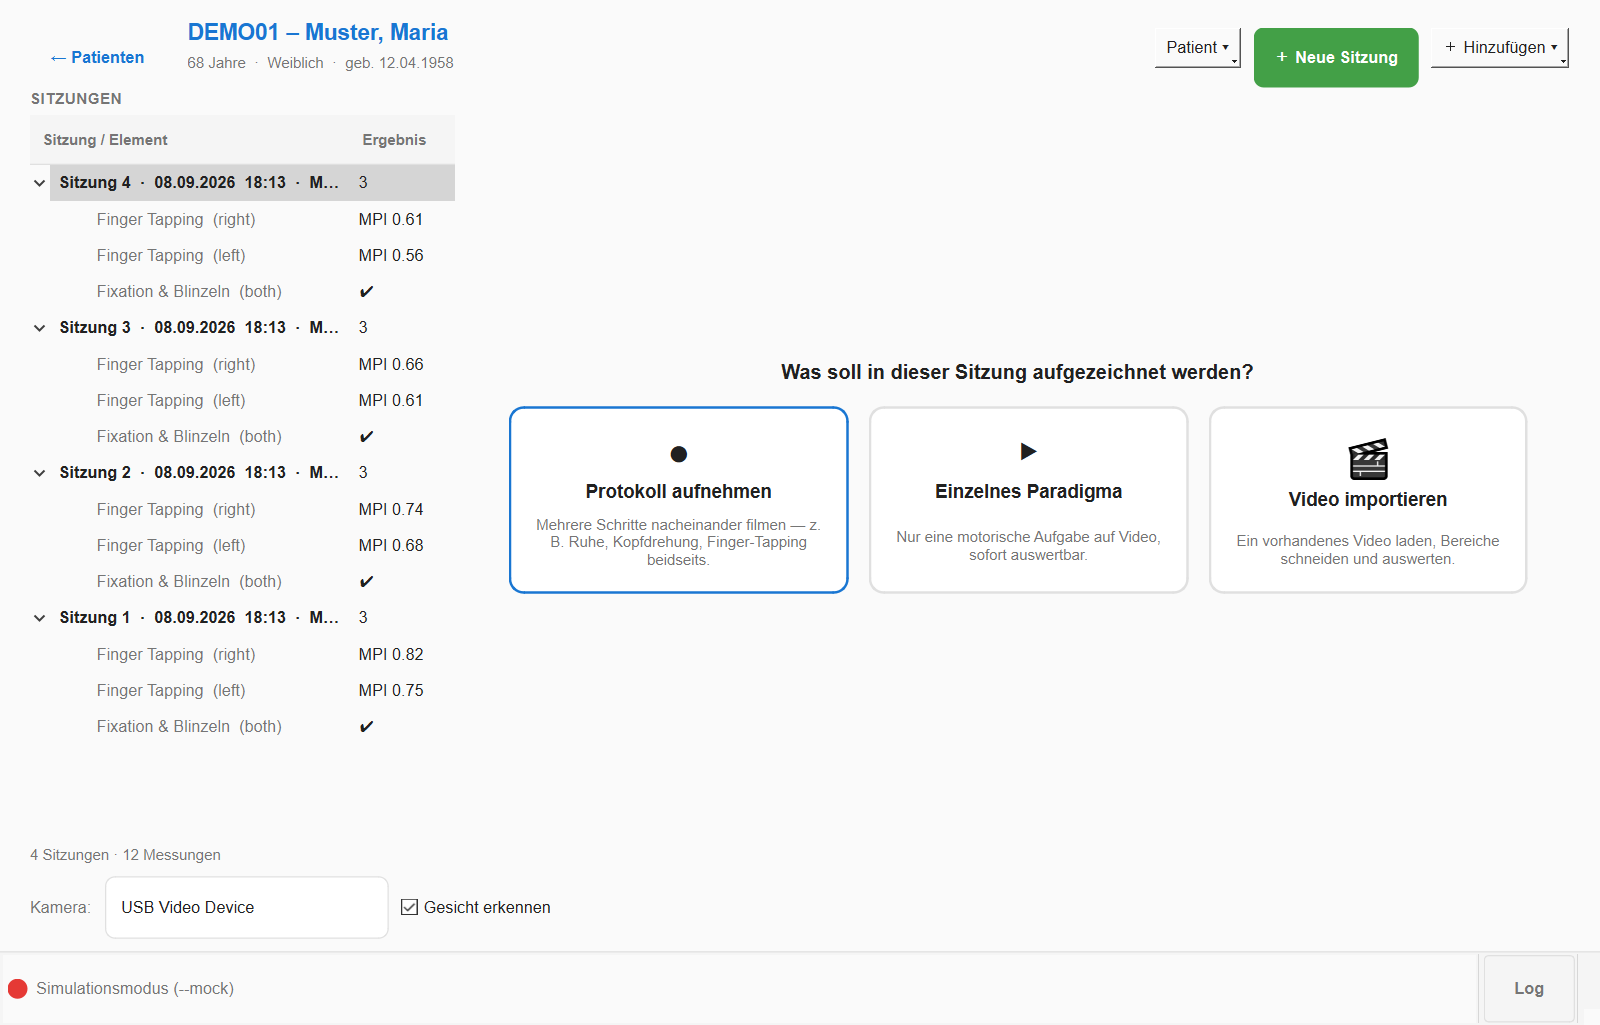
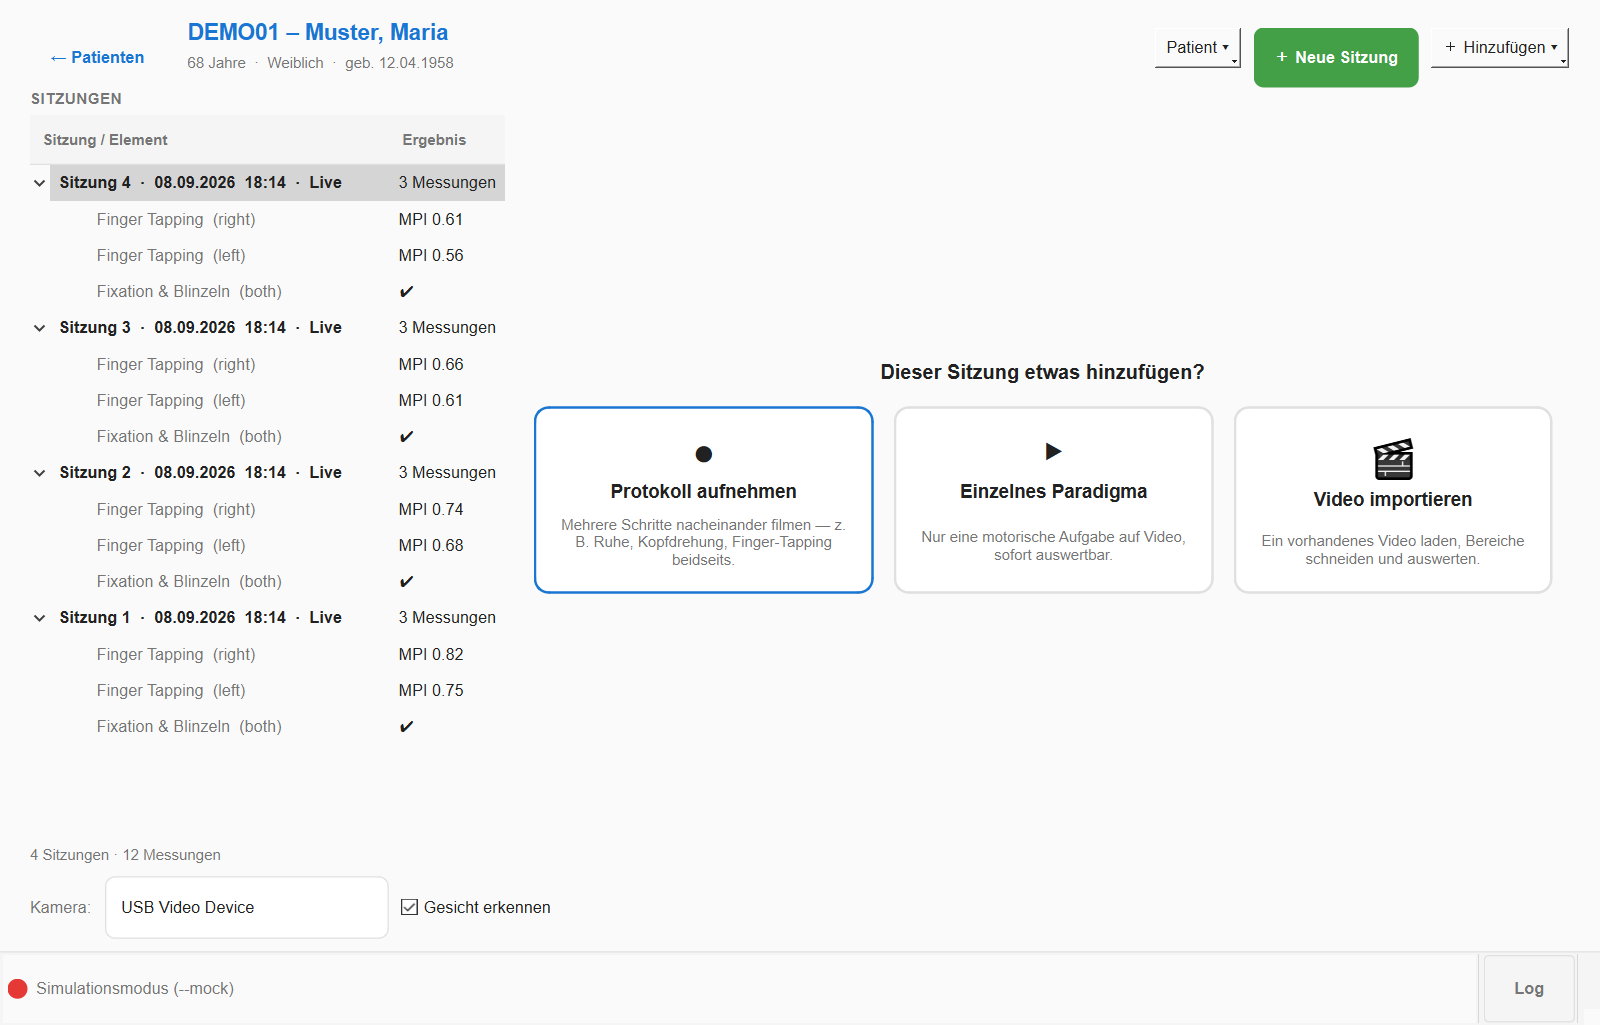
Workbench polish: readable session rows, honest empty-state prompt
Session rows read "Sitzung 4 · 08.09.2026 18:13 · Live · 3 Messungen" instead
of truncating to "M…", the list gets a little more room by default, and the
prompt on the right says "Dieser Sitzung etwas hinzufügen?" for a session
that already holds measurements rather than asking what should be recorded
as if it were empty.

diff --git a/ui/patient_workbench.py b/ui/patient_workbench.py
@@ -270,8 +270,8 @@ class PatientWorkbench(QWidget):
         self._count = QLabel()
         self._count.setStyleSheet(f"font-size: 12px; color: {theme.TEXT_SECONDARY};")
         ll.addWidget(self._count)
-        left.setMinimumWidth(340)
-        left.setMaximumWidth(560)
+        left.setMinimumWidth(380)
+        left.setMaximumWidth(620)
         split.addWidget(left)
 
         self._work = QStackedWidget()
@@ -366,7 +366,7 @@ class PatientWorkbench(QWidget):
     def set_patient(self, patient: Patient) -> None:
         self._patient = patient
         self._update_patient_card()
-        self._split.setSizes([400, max(600, self.width() - 400)])
+        self._split.setSizes([470, max(600, self.width() - 470)])
         self._acquire_device()
         self._populate_cameras()
         self.refresh()
@@ -481,7 +481,7 @@ class PatientWorkbench(QWidget):
         elif v is not None and v.video_path:
             kind, status = "Import", f"{len(v.segments)} Seg."
         elif ms:
-            kind, status = "Messungen", str(len(ms))
+            kind, status = "Live", f"{len(ms)} Messung{'' if len(ms) == 1 else 'en'}"
         else:
             kind, status = "leer", ""
         node = QTreeWidgetItem([f"Sitzung {number}  ·  {_fmt_dt(s.started_at)}  ·  {kind}", status])
@@ -614,9 +614,13 @@ class PatientWorkbench(QWidget):
             self._binding = False
 
     def _show_empty(self, session: Session | None) -> None:
-        self._empty_title.setText(
-            "Was soll in dieser Sitzung aufgezeichnet werden?" if session
-            else "Noch keine Sitzung — mit „＋ Neue Sitzung“ beginnen.")
+        if session is None:
+            text = "Noch keine Sitzung — mit „＋ Neue Sitzung“ beginnen."
+        elif self._measurements.get(session.id):
+            text = "Dieser Sitzung etwas hinzufügen?"
+        else:
+            text = "Was soll in dieser Sitzung aufgezeichnet werden?"
+        self._empty_title.setText(text)
         self._work.setCurrentWidget(self._empty)
 
     def _on_selection(self, item, _prev) -> None:
